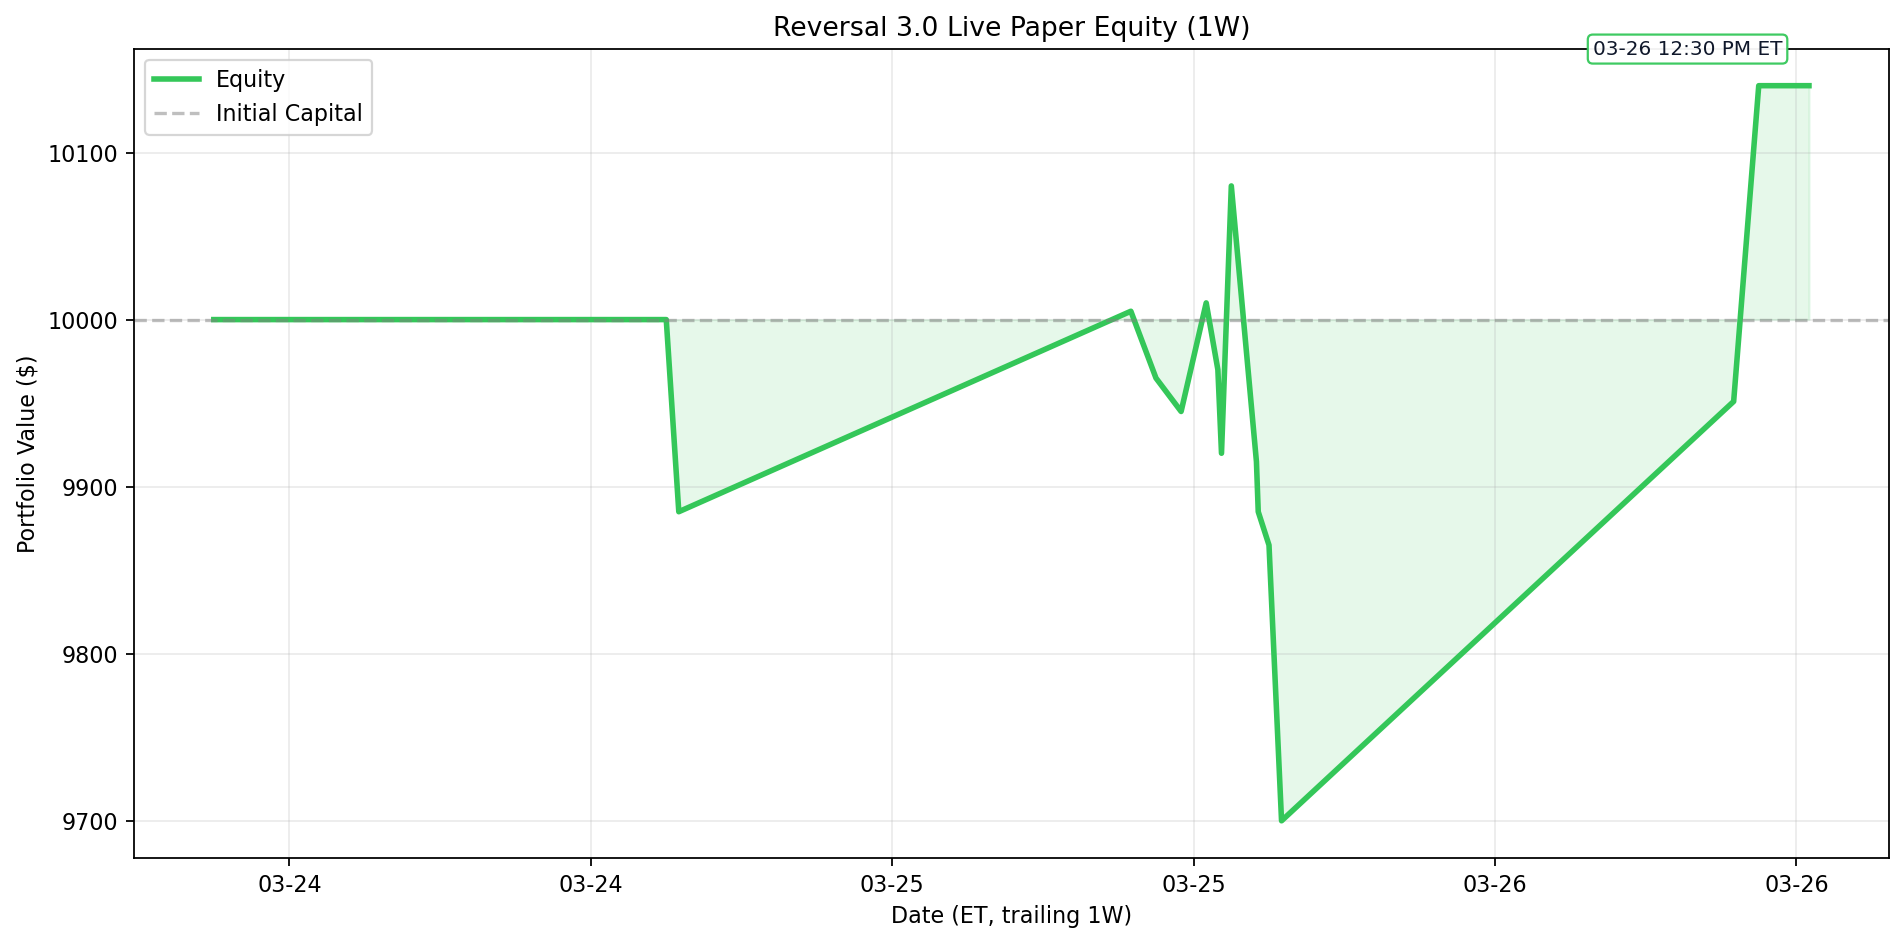
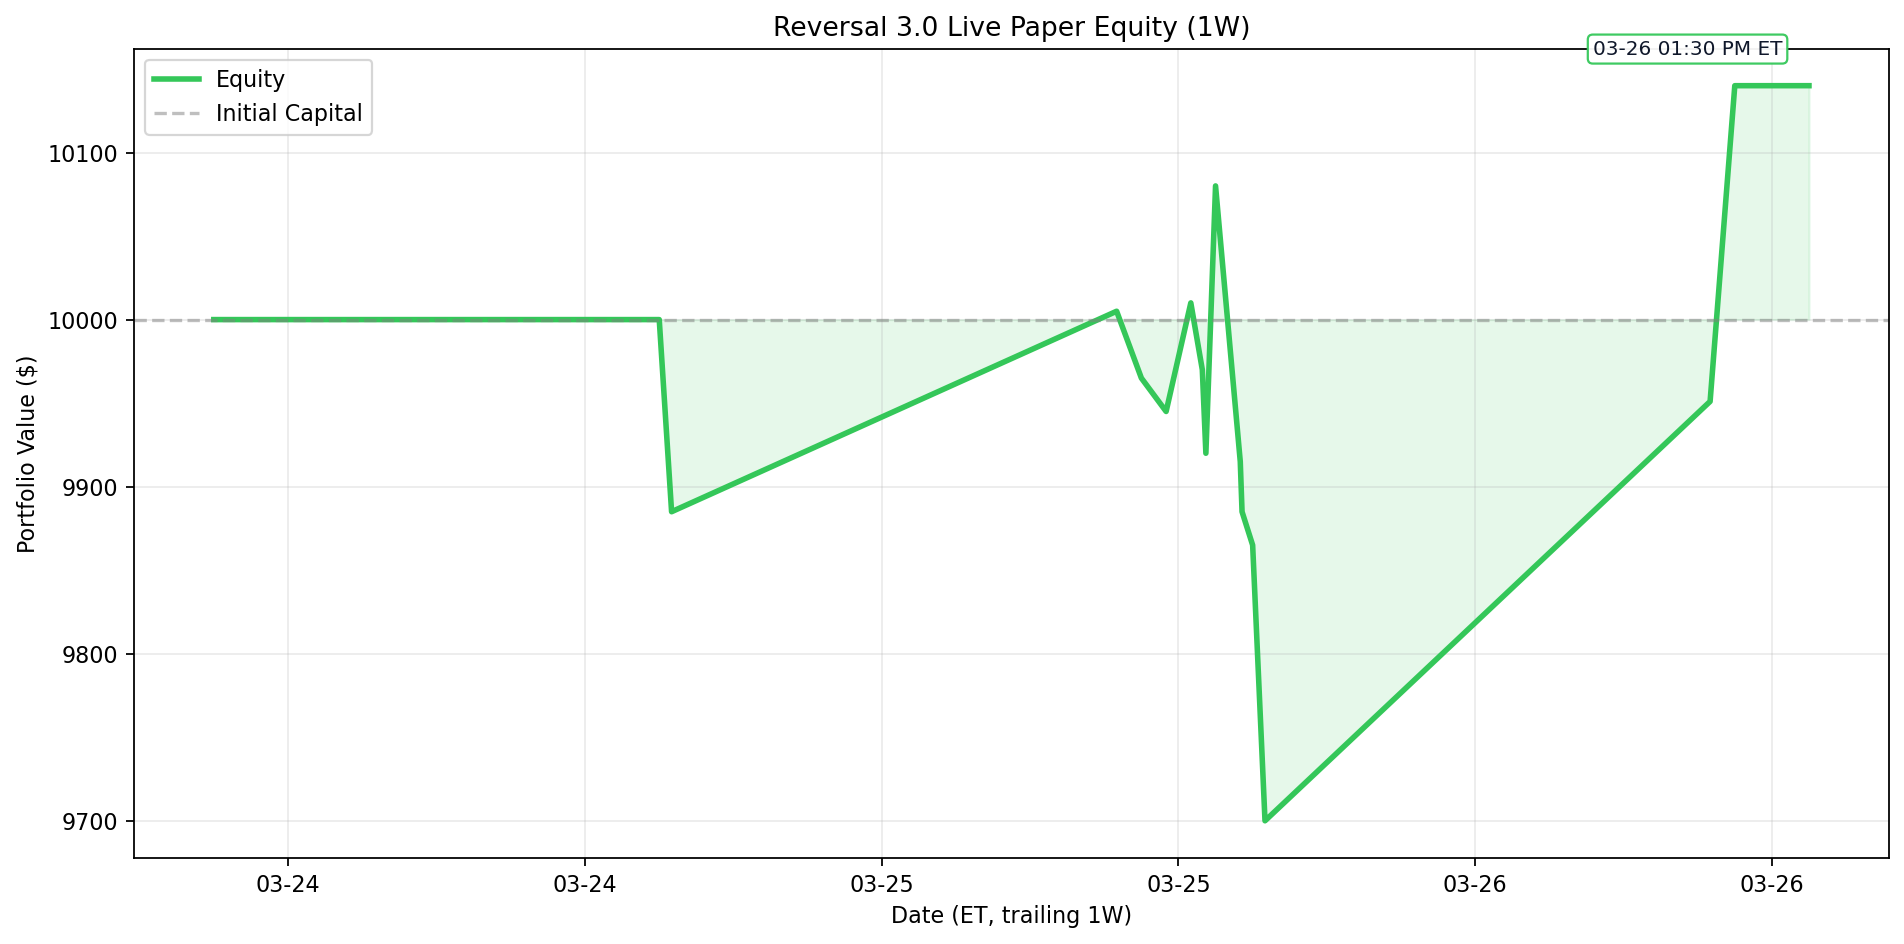
Update Reversal 3.0 live paper test 2026-03-26 13:30 ET

diff --git a/results/reversal_3_0_live/README.md b/results/reversal_3_0_live/README.md
@@ -1,7 +1,7 @@
 # Reversal 3.0 Live Paper Test
 
-Last updated (ET): `2026-03-26 12:30:00 EDT`
-Last processed slot: `manage_1230`
+Last updated (ET): `2026-03-26 13:30:00 EDT`
+Last processed slot: `manage_1330`
 
 ## Active Configuration
 
@@ -41,18 +41,18 @@ ticker     contract_symbol entry_trade_date_et exit_trade_date_et  entry_option_
 
 ```text
 ticker  success_rate_%  matched_signals  current_drop_%  target_rebound_$  target_price  rolling_sigma_20d_%  call_candidate
-   WDC           92.86               14            4.89             10.14        291.79                73.45            True
-  SBUX           92.86               14            1.64              1.06         92.24                29.63            True
-  MRVL           91.89               37            0.85              0.59         98.20                74.71            True
-  NVDA           91.67               12            2.73              3.41        177.22                32.16            True
-   STX           90.91               11            5.53             16.00        406.36                69.64            True
-  AVGO           89.47               19            2.14              4.78        316.76                37.11            True
-  SNPS           88.89               36            1.17              3.36        408.69                32.59            True
-   MAR           88.89               36            0.57              1.31        326.23                28.20            True
-  PCAR           87.88               33            0.85              0.69        116.04                24.57            True
-  PLTR           85.71               14            3.64              3.95        153.27                44.81            True
-  SHOP           85.37               41            0.99              0.82        118.07                51.12            True
-  CHTR           85.29               34            0.86              1.32        218.34                37.90            True
+  ABNB           91.89               37            0.75              0.69        131.51                28.73            True
+  SBUX           91.67               12            1.91              1.24         92.17                29.63            True
+  AVGO           90.91               22            1.94              4.33        316.95                37.11            True
+  NVDA           90.91               11            2.83              3.54        177.16                32.16            True
+  GILD           90.32               31            0.53              0.51        138.04                23.55            True
+  SNPS           87.88               33            1.29              3.70        408.54                32.59            True
+  PCAR           87.50               32            0.90              0.73        116.03                24.57            True
+  PLTR           85.71               14            3.74              4.05        153.22                44.81            True
+  TSLA           85.00               20            2.36              6.37        383.22                32.52            True
+  CHTR           84.38               32            1.08              1.65        218.20                37.90            True
+  MCHP           83.87               31            0.92              0.42         64.98                34.70            True
+  SHOP           83.78               37            1.39              1.15        117.93                51.12            True
 ```
 
 ## Recent Events

diff --git a/README.md b/README.md
@@ -3,10 +3,10 @@
 <!-- reversal-3.0-live:start -->
 ## Reversal 3.0 Live Paper Test
 
-- Last updated (ET): `2026-03-26 12:30:00 EDT`
+- Last updated (ET): `2026-03-26 13:30:00 EDT`
 - Equity: `$10,140.00` | Realized: `$140.00` | Unrealized: `$0.00` | Open positions: `0`
 - Today closed trades: `2`
-- Current slot: `manage_1230`
+- Current slot: `manage_1330`
 - Chart: trailing `1W` with ET timestamps
 
 _None_
